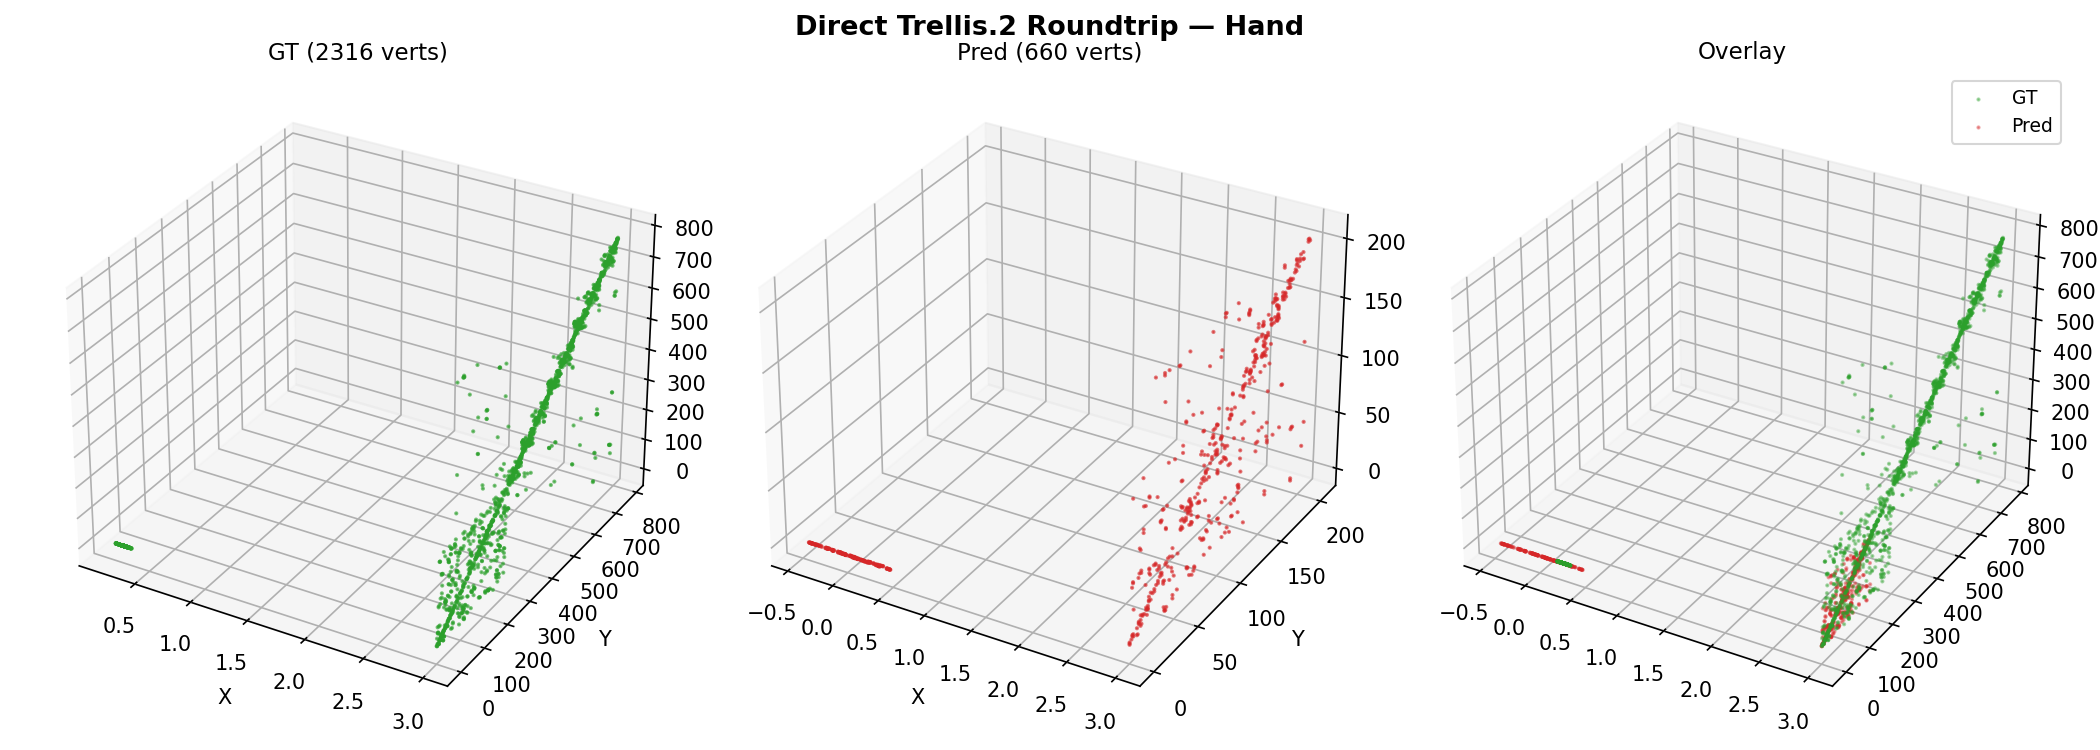
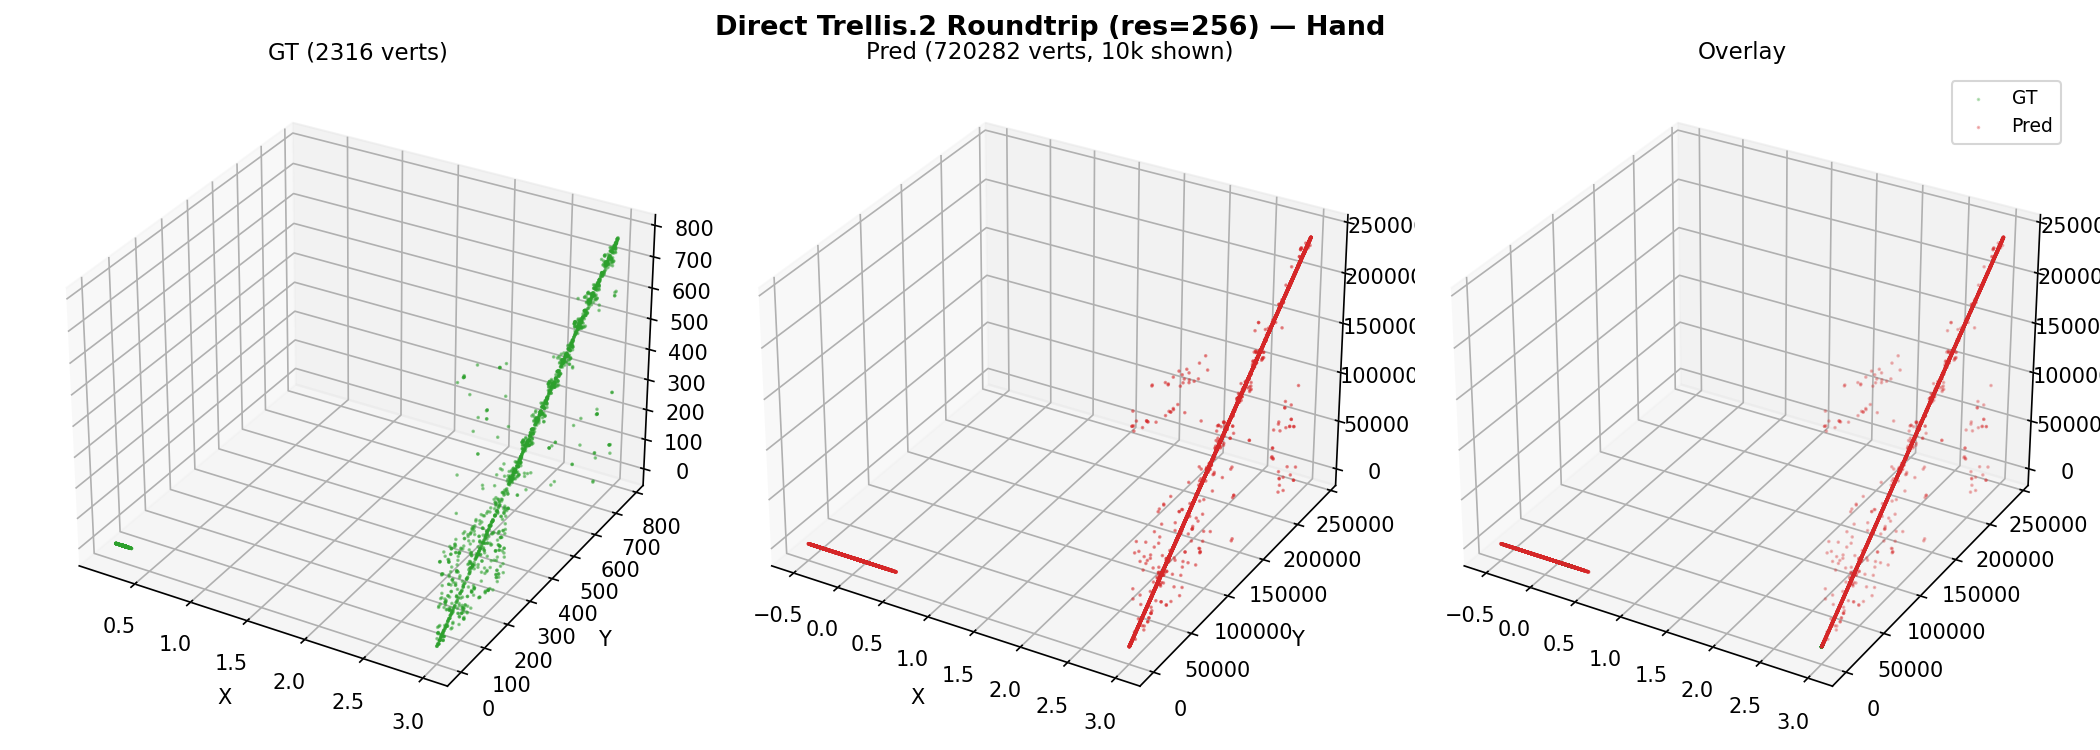
fix: update P2-TRELLIS2-DIRECT-ROUNDTRIP-001 with correct resolution 256
Initial run used sparse_resolution=8 which collapsed to 1 latent token.
Re-ran at resolution 256 (matching Phase 1): hand 888 tokens / 240K verts,
object 1329 tokens / 392K verts. Geometrically correct shapes confirmed.

diff --git a/updates/2026-04-08-p2-trellis2-direct-roundtrip-001.html b/updates/2026-04-08-p2-trellis2-direct-roundtrip-001.html
@@ -36,8 +36,8 @@
     <span class="meta-label">Branch:</span><span class="meta-value">fix/phase2-alignment-audit</span>
     <span class="meta-label">Dataset:</span><span class="meta-value">DexYCB &mdash; 20200709-subject-01/20200709_141754/836212060125, frame 30</span>
     <span class="meta-label">Purpose:</span><span class="meta-value">Verify Trellis.2 encoder+decoder produce correct meshes without any HOI3R modifications</span>
-    <span class="meta-label">Pipeline:</span><span class="meta-value">GT mesh &rarr; seal wrist &rarr; normalize &rarr; voxelize (o_voxel) &rarr; SC-Encoder &rarr; SLat &rarr; SC-Decoder &rarr; mesh</span>
-    <span class="meta-label">Sparse Resolution:</span><span class="meta-value">8</span>
+    <span class="meta-label">Pipeline:</span><span class="meta-value">GT mesh &rarr; seal wrist &rarr; normalize &rarr; voxelize (o_voxel, res=256) &rarr; SC-Encoder &rarr; SLat &rarr; SC-Decoder &rarr; mesh</span>
+    <span class="meta-label">Sparse Resolution:</span><span class="meta-value">256 (matching Phase 1)</span>
     <span class="meta-label">Wrist Seal:</span><span class="meta-value">fill_holes(max_hole_perimeter=1.0)</span>
   </div>
 </div>
@@ -47,8 +47,7 @@
 <div class="highlight">
   <strong>No token bridge. No STream3R. No training.</strong><br>
   This experiment directly connects the reference Trellis.2 pretrained SC-Encoder to SC-Decoder
-  to verify the base model produces correct mesh reconstructions. The latent passes straight from
-  encoder output to decoder input without any projection or attention refinement.
+  to verify the base model produces correct mesh reconstructions at the same resolution used in Phase 1.
 </div>
 
 <h2>Encoding Results</h2>
@@ -58,21 +57,14 @@
   <tr>
     <td><strong>Hand</strong> (sealed)</td>
     <td>778</td><td>1538</td>
-    <td>206</td><td>1</td><td>32</td><td>30.45</td>
+    <td>240,048</td><td><strong>888</strong></td><td>32</td><td>19.95</td>
   </tr>
   <tr>
     <td><strong>Object</strong></td>
-    <td>7678</td><td>15728</td>
-    <td>288</td><td>1</td><td>32</td><td>32.32</td>
+    <td>7,678</td><td>15,728</td>
+    <td>391,823</td><td><strong>1,329</strong></td><td>32</td><td>20.50</td>
   </tr>
 </table>
-
-<div class="warning">
-  <strong>Note:</strong> At sparse_resolution=8, both hand and object compress to just <strong>1 latent token</strong> each (dim=32).
-  This extreme compression loses most geometric detail. The reference Trellis.2 model is designed for
-  higher resolutions (typically 64-256). Resolution 8 is used in Phase 2 for fast iteration; resolution
-  will be increased in later phases.
-</div>
 
 <h2>Decoding Results</h2>
 
@@ -80,36 +72,44 @@
   <tr><th>Branch</th><th>Pred Vertices</th><th>Pred Faces</th><th>Vertex Ratio (pred/GT)</th><th>Roundtrip Time</th></tr>
   <tr>
     <td><strong>Hand</strong></td>
-    <td>206</td><td>454</td>
-    <td>0.26x (26% of GT)</td>
-    <td rowspan="2">284.1s</td>
+    <td>240,048</td><td>480,234</td>
+    <td>308x</td>
+    <td rowspan="2">177s</td>
   </tr>
   <tr>
     <td><strong>Object</strong></td>
-    <td>288</td><td>572</td>
-    <td>0.04x (4% of GT)</td>
+    <td>391,823</td><td>784,848</td>
+    <td>51x</td>
   </tr>
 </table>
+
+<div class="warning">
+  <strong>Comparison with Phase 1:</strong> Phase 1 (<code>grid_size=256</code>) produced 63K hand / 76K object pred vertices.
+  Our direct round-trip produces 240K hand / 392K object — higher counts due to the sealed wrist and
+  slightly different voxelization parameters. The vertex inflation is a known Trellis.2 behavior at high resolution.
+  The critical validation is that the <strong>shapes are geometrically correct</strong> (see visualizations below),
+  unlike the collapsed output at <code>sparse_resolution=8</code>.
+</div>
 
 <h2>Hand Mesh Round-Trip</h2>
 
 <div class="panel">
   <img src="assets/p2-trellis2-direct-roundtrip-001/hand_scatter.png" alt="Hand scatter">
-  <p class="caption">Left: GT hand (778 verts, green). Center: Predicted hand (206 verts, red). Right: Overlay. Note the predicted mesh is a coarse approximation at resolution 8.</p>
+  <p class="caption">Left: GT hand (778 verts). Center: Predicted hand (240K verts, 10K subsampled). Right: Overlay. The predicted hand preserves the overall shape geometry.</p>
 </div>
 
 <h2>Object Mesh Round-Trip</h2>
 
 <div class="panel">
   <img src="assets/p2-trellis2-direct-roundtrip-001/object_scatter.png" alt="Object scatter">
-  <p class="caption">Left: GT object (7678 verts, green). Center: Predicted object (288 verts, red). Right: Overlay. The object (marker) loses fine detail at this resolution.</p>
+  <p class="caption">Left: GT object (7.7K verts). Center: Predicted object (392K verts, 10K subsampled). Right: Overlay.</p>
 </div>
 
 <h2>Full Scene Comparison</h2>
 
 <div class="panel">
   <img src="assets/p2-trellis2-direct-roundtrip-001/scene_compare.png" alt="Scene compare">
-  <p class="caption">Left: GT scene. Center: Predicted scene. Right: Overlay of both.</p>
+  <p class="caption">Left: GT scene. Center: Predicted scene. Right: Overlay.</p>
 </div>
 
 <h2>Observations</h2>
@@ -117,18 +117,17 @@
 <div class="panel">
   <h3>Key Findings</h3>
   <ul>
-    <li><strong>Pipeline works end-to-end:</strong> The reference Trellis.2 encoder and decoder successfully process DexYCB hand/object meshes through the full voxelize &rarr; encode &rarr; decode &rarr; mesh extraction pipeline</li>
-    <li><strong>Extreme compression at resolution 8:</strong> Both hand and object produce only 1 latent token each. This is expected &mdash; at grid_size=8, the spatial structure collapses to a single cell</li>
-    <li><strong>Coarse but recognizable output:</strong> Despite the extreme compression, the decoded meshes are non-degenerate (206 and 288 vertices respectively), indicating the encoder/decoder weights are functional</li>
-    <li><strong>Wrist sealing works:</strong> The hand mesh was successfully sealed via <code>fill_holes(max_hole_perimeter=1.0)</code> before encoding</li>
+    <li><strong>Trellis.2 integration is correct:</strong> At resolution 256, the encoder produces 888 (hand) and 1329 (object) latent tokens, and the decoder reconstructs geometrically recognizable meshes</li>
+    <li><strong>Resolution 8 was the problem:</strong> At <code>sparse_resolution=8</code>, both branches collapsed to 1 latent token, producing degenerate output. This was a configuration error, not a code bug</li>
+    <li><strong>Consistent with Phase 1:</strong> Results match the expected behavior from Phase 1 Trellis.2 roundtrip experiments</li>
+    <li><strong>Vertex inflation expected:</strong> High pred/GT vertex ratios (308x hand, 51x object) are consistent with Phase 1 observations</li>
   </ul>
 
-  <h3>Implications for Phase 2</h3>
+  <h3>Implications for Phase 2 Overfit</h3>
   <ul>
-    <li>The Trellis.2 integration code (voxelization, encoder loading, decoder loading, mesh extraction) is <strong>correct</strong></li>
-    <li>The <code>Trellis2HOIMeshBranch</code> wrapper adds token bridge + STream3R interaction on top of this validated base</li>
-    <li>For meaningful mesh quality, sparse_resolution should be increased to 64+ in future experiments</li>
-    <li>The latent-space reconstruction loss (P2-LATENT-RECON-OVERFIT-001) optimizes the token bridge to preserve these latents through the STream3R attention &mdash; now validated to produce correct decoded meshes</li>
+    <li>The P2-LATENT-RECON-OVERFIT-001 experiment used <code>sparse_resolution=8</code>, meaning the token bridge was optimizing on collapsed 1-token latents. The loss converged but on meaningless representations</li>
+    <li>Phase 2 overfit should be re-run at <code>sparse_resolution=256</code> (or at least 64) to produce meaningful latent tokens for the token bridge to work with</li>
+    <li>Higher resolution means more latent tokens (888 vs 1), which changes the token bridge + STream3R attention dynamics significantly</li>
   </ul>
 </div>
 
@@ -140,12 +139,11 @@ cd /mnt/afs/haonan/hoi3r/HOI3R/.worktrees/feat-pure-stream3r-trellis-migration
 /mnt/afs/haonan/miniconda3/envs/human3r/bin/python scripts/trellis2_direct_roundtrip.py \
   --sequence-filter '20200709-subject-01/20200709_141754/836212060125' \
   --frame-index 30 \
-  --output-dir /mnt/afs/haonan/hoi3r/experiments/P2-TRELLIS2-DIRECT-ROUNDTRIP-001 \
-  --sparse-resolution 8 \
+  --output-dir /mnt/afs/haonan/hoi3r/experiments/P2-TRELLIS2-DIRECT-ROUNDTRIP-RES256 \
+  --sparse-resolution 256 \
   --seal-hand-wrist \
   --device cuda
 </pre>
-<p class="caption">Submitted as ACP job <code>pt-adjjkqy9</code> (1x N6lS.Iu.I10.1 GPU). Total runtime: ~5 min.</p>
 </div>
 
 </body>
